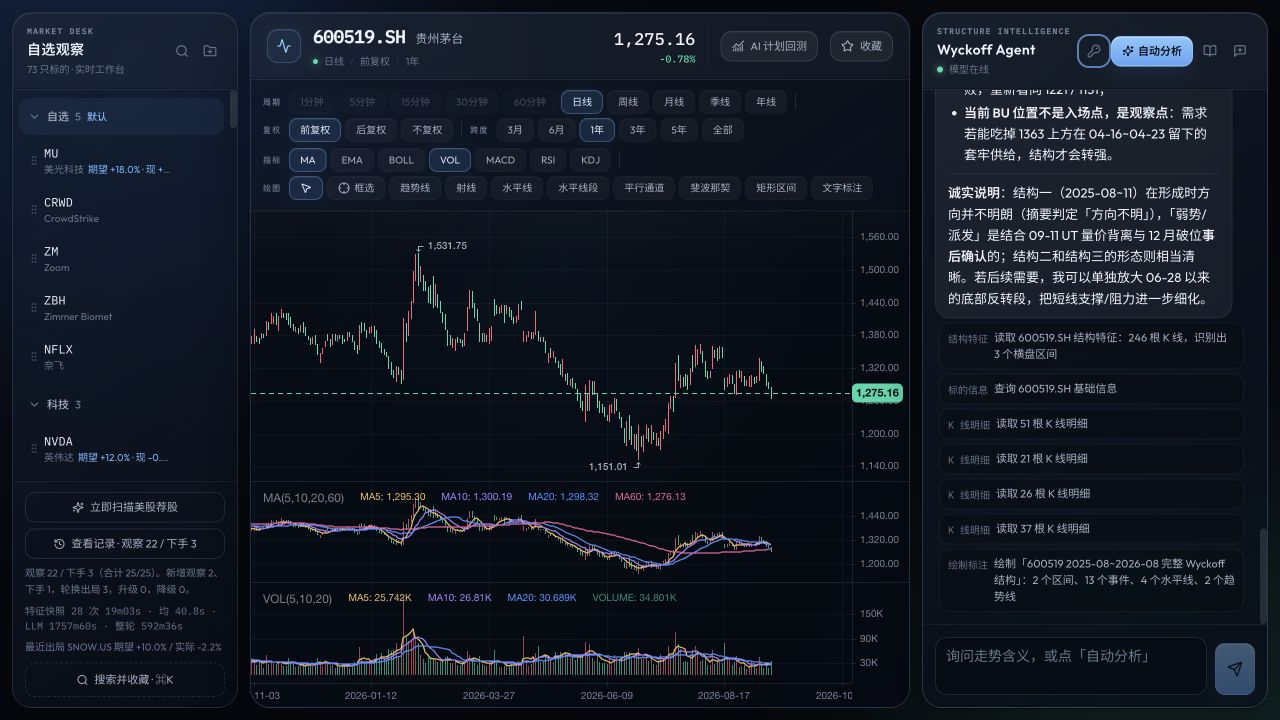
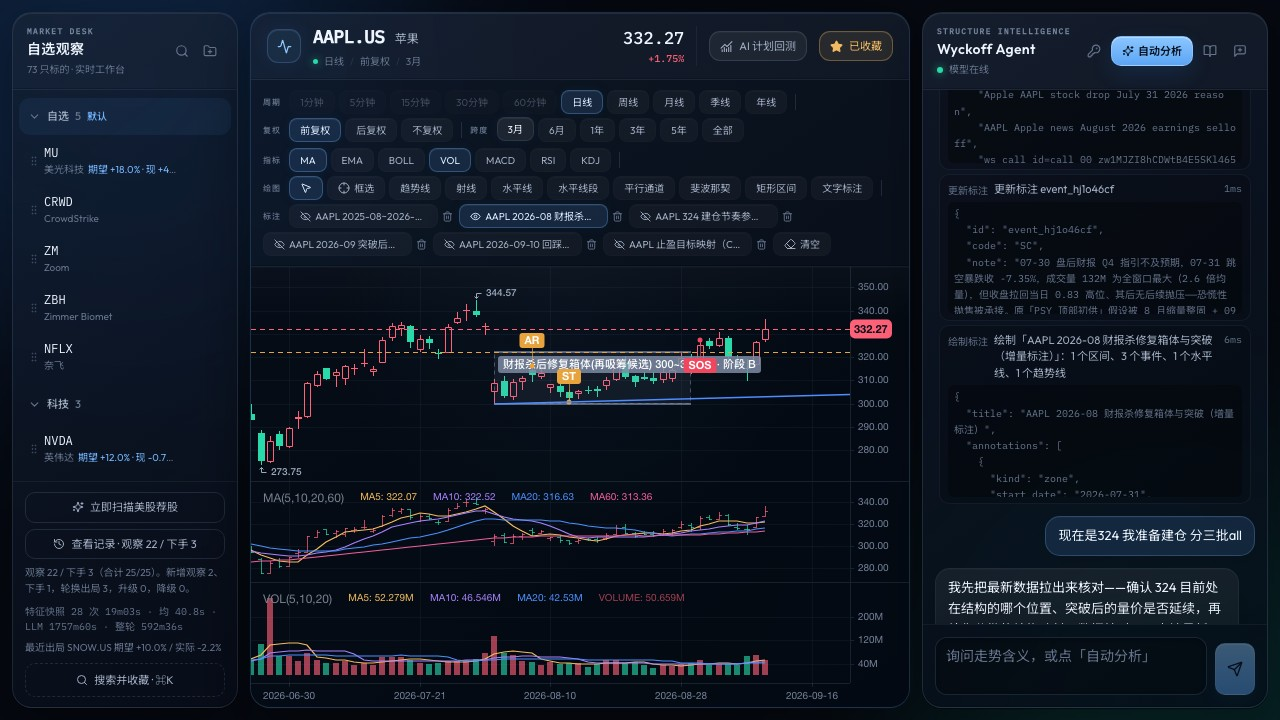
docs: showcase AAPL auto annotations

diff --git a/apps/web/src/components/SearchModal.tsx b/apps/web/src/components/SearchModal.tsx
@@ -105,7 +105,7 @@ export function SearchModal() {
                 pick(results[active]);
               }
             }}
-            placeholder="代码 / 名称 / 拼音首字母，如 600519 或 pfyh"
+            placeholder="代码 / 名称 / 拼音首字母，如 AAPL 或 Apple"
             className="h-12 flex-1 text-sm text-ink placeholder:text-ink-faint"
           />
           <button type="button" className="rounded-lg p-1.5 text-ink-faint hover:bg-panel-2 hover:text-ink" onClick={() => setSearchOpen(false)}>
@@ -157,7 +157,7 @@ export function SearchModal() {
             ))}
           {!query && (
             <p className="px-4 py-8 text-center text-xs text-ink-faint">
-              支持代码前缀、中文名称、拼音首字母（如 <span className="font-mono text-ink-dim">gzmt</span> → 贵州茅台）
+              支持代码、公司名称与拼音首字母（如 <span className="font-mono text-ink-dim">AAPL</span> → Apple）
             </p>
           )}
         </div>

diff --git a/apps/web/src/store.ts b/apps/web/src/store.ts
@@ -161,7 +161,7 @@ function firstUserGroup(groups: WatchGroup[]): WatchGroup | undefined {
 }
 
 export const useWorkbench = create<WorkbenchState>((set, get) => ({
-  symbol: localStorage.getItem(LAST_SYMBOL_KEY) ?? "600519.SH",
+  symbol: localStorage.getItem(LAST_SYMBOL_KEY) ?? "AAPL.US",
   instrumentName: null,
   period: "1d",
   adjust: "forward",

diff --git a/README.en.md b/README.en.md
@@ -6,7 +6,9 @@ A local AI workspace for single-asset price-and-volume research: professional ca
 
 > This project is for research and education. It is not investment advice, a performance guarantee, or an automated trading service.
 
-![Wyckoff Agent workbench](./docs/screenshots/workbench.jpg)
+![Automated AAPL Wyckoff analysis with trading ranges, event markers, support and resistance, and trendlines](./docs/screenshots/workbench.jpg)
+
+The example above uses AAPL. After **Auto analysis**, the Agent draws trading ranges, Wyckoff events, support and resistance, and trendlines directly on the candlestick canvas while preserving the explanation and tool trace on the right.
 
 ## Why this project exists
 

diff --git a/README.md b/README.md
@@ -6,7 +6,9 @@
 
 > 本项目用于研究与教育，不构成投资建议、收益承诺或自动交易服务。
 
-![Wyckoff Agent 主工作台](./docs/screenshots/workbench.jpg)
+![AAPL 自动 Wyckoff 分析：交易区间、事件标记、支撑阻力与趋势线](./docs/screenshots/workbench.jpg)
+
+上图以 AAPL 为演示。点击「自动分析」后，Agent 会把交易区间、Wyckoff 事件、支撑阻力与趋势线直接绘制到 K 线画布，并在右侧保留对应分析与工具轨迹。
 
 ## 为什么做这个项目
 
